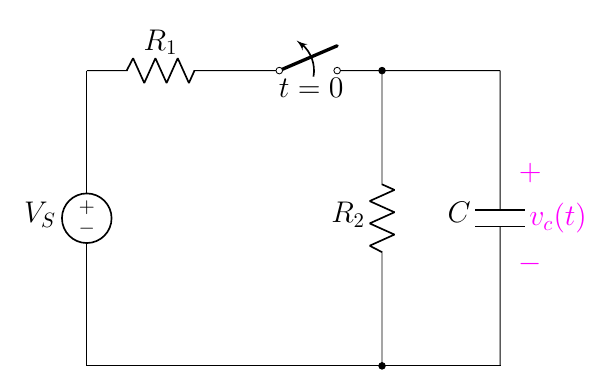
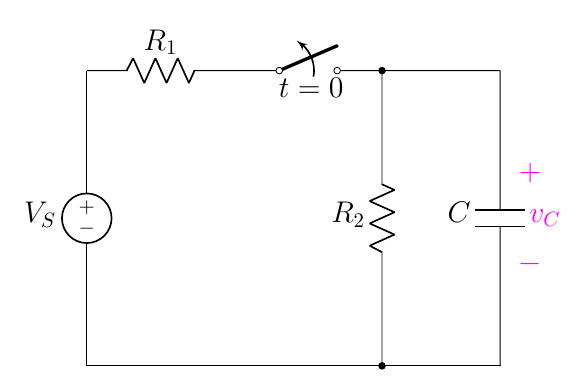
7.9

diff --git a/2.2 Source-Free RC/7.2 Source-Free RC/7.9(new).tex b/2.2 Source-Free RC/7.2 Source-Free RC/7.9(new).tex
@@ -26,7 +26,7 @@
     %%% find %%%
     \node at(3.8,4.7) []{$t=0$};
     \draw[magenta](7.2,1.5)
-        to[open,v>=$v_c(t)$] ++(0,2);
+        to[open,v>=$v_C$] ++(0,2);
 
 \end{circuitikz}
 \end{document}
